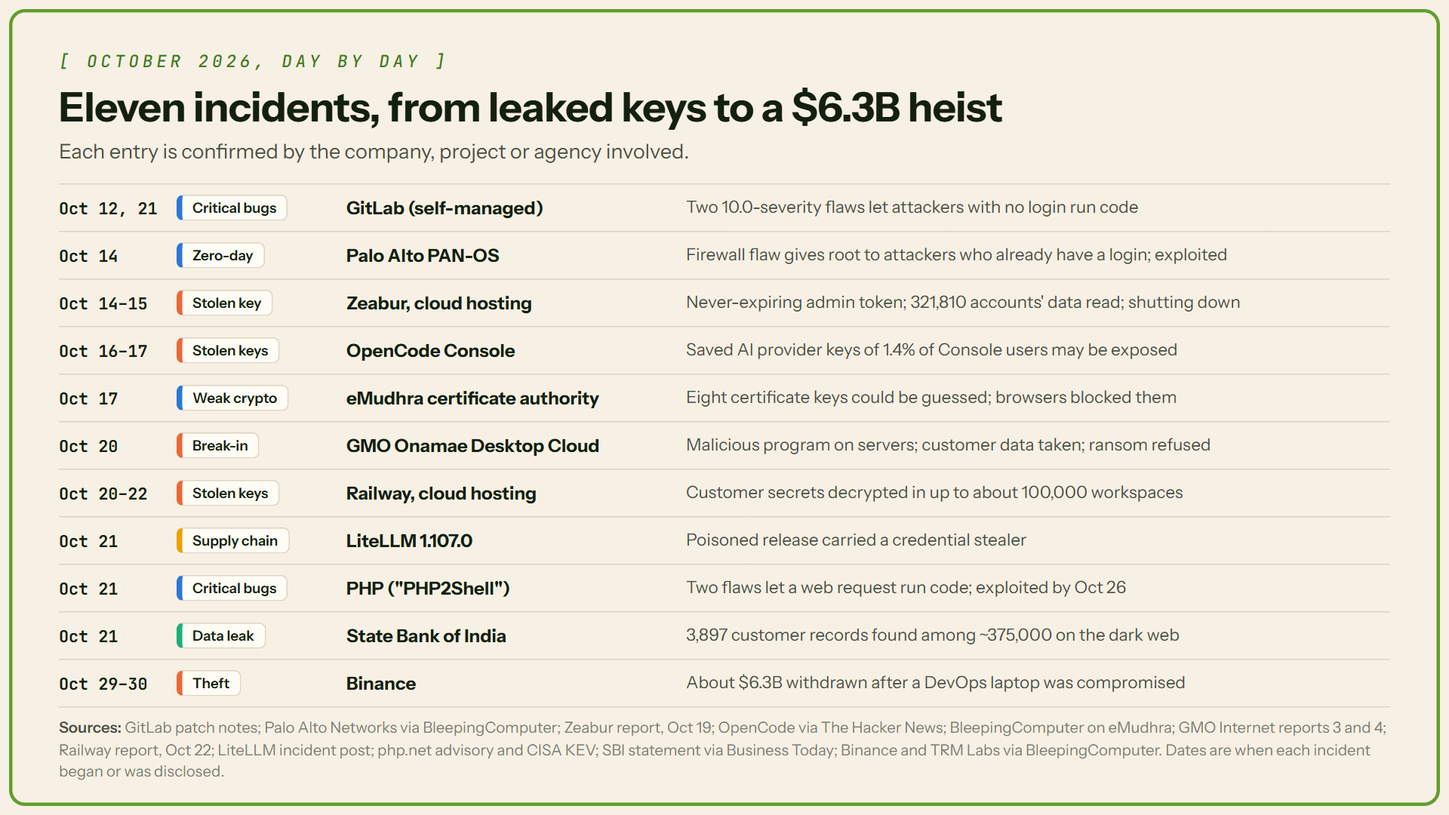
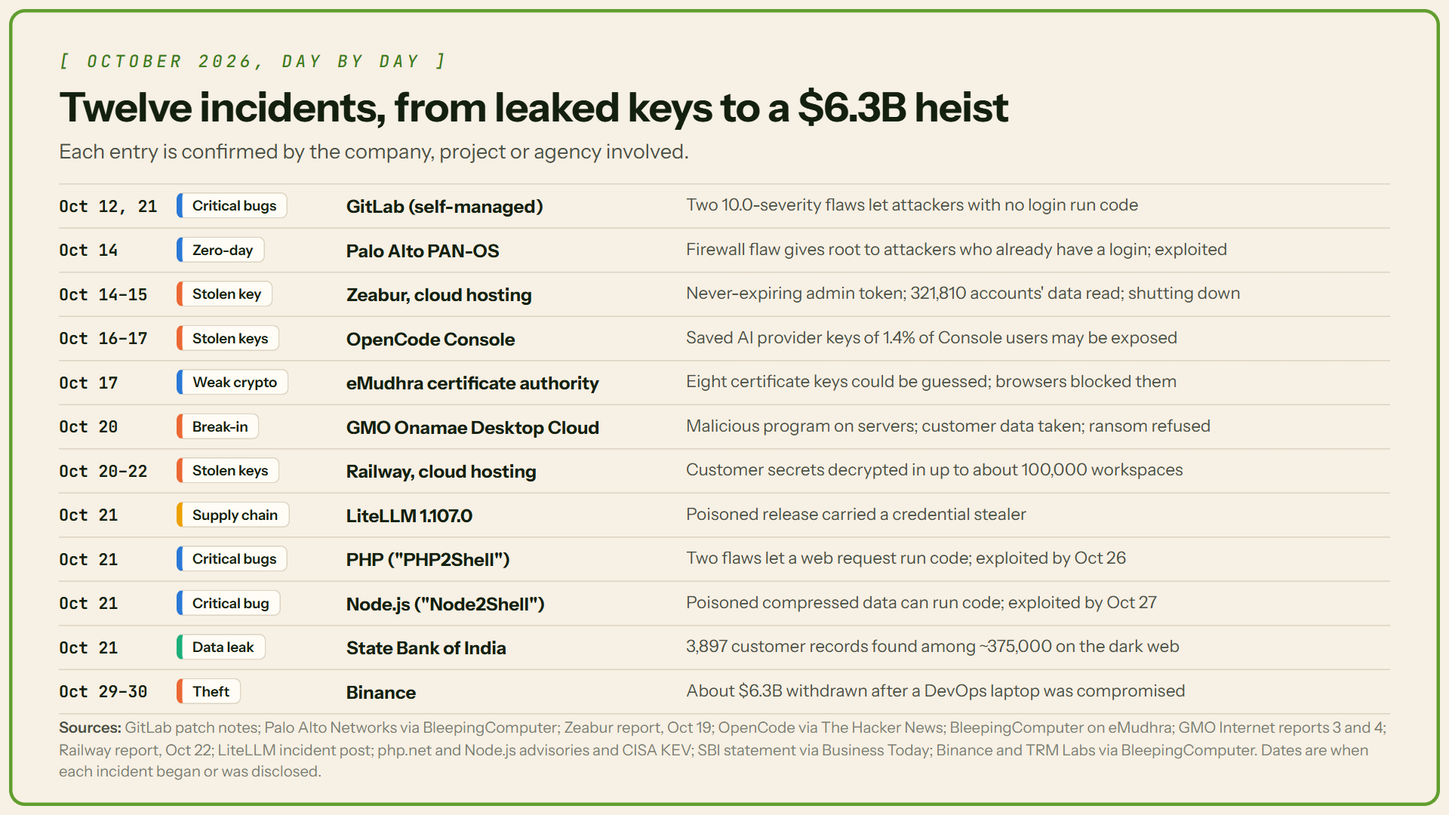
Add Node2Shell and apply reviewer fixes to Black October article

diff --git a/black-october-2026-infrastructure-hacks/index.html b/black-october-2026-infrastructure-hacks/index.html
@@ -3,7 +3,7 @@
 <head>
 <meta charset="UTF-8">
 <meta name="viewport" content="width=device-width, initial-scale=1.0">
-<meta name="description" content="October 2026's worst security incidents explained: Binance, GitLab, PHP2Shell, Zeabur, OpenCode, Railway, LiteLLM, GMO, SBI, eMudhra and PAN-OS. How attackers got in and what to do.">
+<meta name="description" content="October 2026's worst security incidents explained: Binance, GitLab, PHP2Shell, Node2Shell, Zeabur, OpenCode, Railway, LiteLLM, GMO, SBI, eMudhra and PAN-OS. How attackers got in and what to do.">
 <meta property="og:title" content="Black October 2026: Worst Infrastructure Hacks Analyzed">
 <meta property="og:description" content="A $6.3 billion crypto theft, a hosting company breached with keys it never changed, and two perfect-10 GitLab bugs. What happened, and what to do about each.">
 <meta property="og:type" content="article">
@@ -288,7 +288,7 @@
 <header class="article-header">
   <span class="tag">Deep Dive</span>
   <h1>Black October 2026: Worst Infrastructure Hacks Analyzed</h1>
-  <p class="subtitle">A $6.3 billion crypto theft, a hosting company breached with keys it never changed, and two perfect-10 GitLab bugs. What happened, and what to do about each.</p>
+  <p class="subtitle">A $6.3 billion crypto theft, a hosting company breached with keys it never changed, and two perfect-10 GitLab bugs.</p>
   <p class="meta">Researched &amp; written November 2026 · ~8 min read · Sources cited throughout</p>
 </header>
 
@@ -300,21 +300,21 @@
 
 <p class="drop-cap">On October 29, about $6.3 billion left Binance's wallets, most of it in roughly 20 minutes. Binance traced it to one engineer's compromised laptop. Two weeks earlier, a cloud host called Zeabur was breached with admin tokens nobody had changed since January 2024. It later chose to shut down, partly because of the breaches.</p>
 
-<p>Most of October's incidents weren't clever new attacks. Someone got hold of a key, or found a door that should have been locked. Below are eleven, in date order.</p>
+<p>Most of October's incidents weren't clever new attacks. Someone got hold of a key, or found a door that should have been locked. Below are twelve, in date order.</p>
 
 <p>Each one is checked against the company's statement, a vendor advisory or a government notice.</p>
 
 <h3>🙋 Does this affect you?</h3>
 
 <ul>
-  <li>Run your own GitLab server, PHP website or Palo Alto firewall? Patch now (Figure 4).</li>
+  <li>Run your own GitLab server, PHP website, Node.js app or Palo Alto firewall? Patch now (Figure 4).</li>
   <li>Kept keys on Zeabur, Railway or OpenCode Console? Rotate them.</li>
   <li>Installed LiteLLM 1.107.0? Treat that machine as compromised.</li>
 </ul>
 
 <figure class="article-image">
-  <a class="zoom" href="https://padmashri23.github.io/under-the-hood/black-october-2026-infrastructure-hacks/images/october-timeline.png" target="_blank"><img src="https://padmashri23.github.io/under-the-hood/black-october-2026-infrastructure-hacks/images/october-timeline.png" onerror="this.onerror=null;this.src='images/october-timeline.png'" width="1920" height="1080" loading="lazy" alt="Timeline of eleven October 2026 incidents. Oct 12 and 21: two 10.0-severity GitLab flaws. Oct 14: exploited Palo Alto PAN-OS firewall flaw. Oct 14 to 15: Zeabur breached with a never-expiring admin token, 321,810 accounts' data read. Oct 16 to 17: OpenCode Console AI provider keys of 1.4% of users may be exposed. Oct 17: eight eMudhra certificate keys could be guessed. Oct 20: GMO Onamae Desktop Cloud break-in, data taken, ransom refused. Oct 20 to 22: Railway secrets decrypted in up to about 100,000 workspaces. Oct 21: poisoned LiteLLM 1.107.0. Oct 21: PHP2Shell flaws, exploited by Oct 26. Oct 21: State Bank of India, 3,897 customer records found among about 375,000 on the dark web. Oct 29 to 30: Binance, about 6.3 billion dollars withdrawn after a DevOps laptop was compromised."></a>
-  <figcaption>Figure 1. The eleven incidents in date order.</figcaption>
+  <a class="zoom" href="https://padmashri23.github.io/under-the-hood/black-october-2026-infrastructure-hacks/images/october-timeline.png" target="_blank"><img src="https://padmashri23.github.io/under-the-hood/black-october-2026-infrastructure-hacks/images/october-timeline.png" onerror="this.onerror=null;this.src='images/october-timeline.png'" width="1920" height="1080" loading="lazy" alt="Timeline of twelve October 2026 incidents. Oct 12 and 21: two 10.0-severity GitLab flaws. Oct 14: exploited Palo Alto PAN-OS firewall flaw. Oct 14 to 15: Zeabur breached with a never-expiring admin token, 321,810 accounts' data read. Oct 16 to 17: OpenCode Console AI provider keys of 1.4% of users may be exposed. Oct 17: eight eMudhra certificate keys could be guessed. Oct 20: GMO Onamae Desktop Cloud break-in, data taken, ransom refused. Oct 20 to 22: Railway secrets decrypted in up to about 100,000 workspaces. Oct 21: poisoned LiteLLM 1.107.0. Oct 21: PHP2Shell flaws, exploited by Oct 26. Oct 21: Node.js Node2Shell Brotli flaw, exploited by Oct 27. Oct 21: State Bank of India, 3,897 customer records found among about 375,000 on the dark web. Oct 29 to 30: Binance, about 6.3 billion dollars withdrawn after a DevOps laptop was compromised."></a>
+  <figcaption>Figure 1. The twelve incidents in date order.</figcaption>
 </figure>
 
 <h3>📖 Words you'll see in this article</h3>
@@ -346,17 +346,17 @@
 
 <p><strong>How they got in.</strong> With the first bug, a specially crafted pattern in a CI/CD configuration, the file that tells GitLab how to build code, lets someone with no login run code on the server. GitLab says the second "could have allowed an unauthenticated user to execute arbitrary code." Both are integer overflows: a number grows past its limit and wraps around, like an old car odometer rolling back to zero. No attacks on the second bug have been reported.</p>
 
-<p><strong>What to do.</strong> GitLab.com is already patched. Self-managed servers need 19.5.1, 19.4.3 or 19.3.6, or the backport for an older branch. A server patched on October 12 is still exposed to the second bug.</p>
+<p><strong>What to do.</strong> GitLab.com is already patched. Self-managed servers need 19.5.1, 19.4.3, 19.3.6 or an older branch's backport. A server patched on October 12 is still exposed to the second bug. Running GitLab on your own Ruby? Upgrade Ruby to 3.3.13, 3.4.12 or 4.0.9+ too.</p>
 
 <h2 id="panos">🧱 Palo Alto PAN-OS: a firewall zero-day (Oct 14)</h2>
 
-<p>CVE-2026-0322 lets an attacker who already has credentials and network access to the firewall's management page run code as root. Palo Alto said "very limited exploitation" had been observed, and CISA gave federal agencies three days to fix it. There is no workaround: upgrade, and allow the management page only from trusted internal addresses.</p>
+<p>CVE-2026-0322 lets an attacker who already has credentials and network access to the firewall's management page run code as root. Palo Alto saw "very limited exploitation," and CISA gave federal agencies three days to fix it. There is no workaround: upgrade, and limit the management page to trusted internal addresses.</p>
 
 <h2 id="zeabur">🔑 Zeabur: keys nobody changed (Oct 14 to 15)</h2>
 
 <p><strong>What happened.</strong> Zeabur hosted apps for developers. An attacker reached its shared cluster in nine regions, signed in as root on 101 dedicated servers and read the platform database: data for 321,810 accounts and 3,218,965 environment-variable records.</p>
 
-<p><strong>How they got in.</strong> Zeabur says the attacker used "leaked Zeabur internal credentials": AWS keys and cluster admin tokens. The admin tokens "had no expiry, had not been rotated since they were created in January 2024." They sat in plain text in a private repository, and the admin interface was open to the internet. Picture a master key nobody changed for 1,008 days. Zeabur's reset after an August breach "did not cover the cluster admin tokens and AWS keys."</p>
+<p><strong>How they got in.</strong> Zeabur says the attacker used "leaked Zeabur internal credentials": AWS keys and cluster admin tokens. The admin tokens "had no expiry, had not been rotated since they were created in January 2024." They sat in plain text in a private repository, and the admin interface was open to the internet. Picture a master key nobody changed for 1,008 days.</p>
 
 <p><strong>What to do.</strong> Zeabur will stop all services by December 31. Customers should rotate every secret stored there and move their apps.</p>
 
@@ -378,7 +378,7 @@
 
 <h2 id="emudhra">🔒 eMudhra: certificate keys anyone could guess (Oct 17)</h2>
 
-<p>eMudhra is an Indian certificate authority, one of the companies that vouch for the padlock in your browser. A researcher found that eight of its intermediate certificates had private keys with "values smaller than 256," so anyone could guess them in 256 tries and forge trusted certificates. Mozilla blocked them on October 17, and Chrome blocked the six that could issue website certificates. eMudhra said it found no evidence they were misused, and it is winding down its global TLS certificate business. India's Digital Signature Certificates and eSign are unaffected, according to India's IT ministry.</p>
+<p>eMudhra is an Indian certificate authority, one of the companies that vouch for the padlock in your browser. Eight of its intermediate certificates had private keys anyone could guess in 256 tries, enough to forge trusted certificates. Browsers started blocking them on October 17. eMudhra found no evidence of misuse and is leaving the global TLS certificate business. India's IT ministry says local Digital Signature Certificates and eSign are unaffected.</p>
 
 <h2 id="gmo">🖥 GMO Onamae.com Desktop Cloud: a hidden program (Oct 20)</h2>
 
@@ -404,7 +404,7 @@
 
 <p><strong>How they got in.</strong> They held three developers' GitHub login tokens. One overrode the release safeguards, a second approved the release and a third deleted the records afterward.</p>
 
-<p><strong>What to do.</strong> If you installed it, remove it, rebuild from scratch on 1.106.2, and rotate every secret that machine could reach.</p>
+<p><strong>What to do.</strong> Don't start with pip: any Python run, pip included, restarts the malware. From the shell, delete cook.pth, cook.py, sitecustomize.py and their cached copies, then kill the hidden Python process. Rebuild from scratch on 1.106.2 and rotate every secret that machine could reach.</p>
 
 <figure class="article-image">
   <a class="zoom" href="https://padmashri23.github.io/under-the-hood/black-october-2026-infrastructure-hacks/images/litellm-window.png" target="_blank"><img src="https://padmashri23.github.io/under-the-hood/black-october-2026-infrastructure-hacks/images/litellm-window.png" onerror="this.onerror=null;this.src='images/litellm-window.png'" width="1920" height="1080" loading="lazy" alt="Timeline chart for October 21, 2026, in UTC. Attack setup from 10:08 to 11:39. The malicious LiteLLM 1.107.0 was on PyPI from 11:39 to 13:23 (1 hour 44 minutes), on GitHub's container registry from 11:46 to 13:51 (2 hours 5 minutes), and on Docker Hub from 11:46 to 14:20 (2 hours 34 minutes)."></a>
@@ -417,24 +417,28 @@
 
 <p><strong>How they got in.</strong> PHP says the risk is highest with Apache's mod_php, where a demonstrated attack works "before any application code runs." No login and no buggy plugin are needed.</p>
 
-<p><strong>What to do.</strong> Upgrade to 8.5.12, 8.4.27, 8.3.36 or 8.2.35. PHP 8.1 and older get no official release, though the team posted minimal source fixes for 7.4, 8.0 and 8.1. Anything older gets no fix from the PHP project, though some Linux distributions and paid support vendors backport one.</p>
+<p><strong>What to do.</strong> Upgrade to 8.5.12, 8.4.27, 8.3.36 or 8.2.35. PHP 8.1 and older get no official release, though the team posted minimal source fixes for 7.4, 8.0 and 8.1. Older versions need a fix from a Linux distribution or support vendor.</p>
 
 <figure class="article-image">
-  <a class="zoom" href="https://padmashri23.github.io/under-the-hood/black-october-2026-infrastructure-hacks/images/patch-now.png" target="_blank"><img src="https://padmashri23.github.io/under-the-hood/black-october-2026-infrastructure-hacks/images/patch-now.png" onerror="this.onerror=null;this.src='images/patch-now.png'" width="1920" height="1080" loading="lazy" alt="Patch card. GitLab self-managed, CVE-2026-97229 and CVE-2026-110264, both CVSS 10.0, the first on CISA's exploited list on Oct 29: upgrade to 19.5.1, 19.4.3 or 19.3.6; the Oct 12 fixes do not cover the second bug; custom Ruby must be 3.3.13, 3.4.12 or 4.0.9 or later. PHP2Shell, CVE-2026-109618 and CVE-2026-109619, exploited, on CISA's list Oct 26: upgrade to 8.5.12, 8.4.27, 8.3.36 or 8.2.35; 8.1 and older get no official release, minimal source fixes for 7.4, 8.0 and 8.1; for older versions, ask your Linux distribution or support vendor. Palo Alto PAN-OS, CVE-2026-0322, CVSS 8.6, on CISA's list Oct 14: fixed builds for 10.2, 11.1, 11.2, 12.1 and 12.2; no workaround; restrict the management interface."></a>
-  <figcaption>Figure 4. The versions that fix October's three big software bugs.</figcaption>
+  <a class="zoom" href="https://padmashri23.github.io/under-the-hood/black-october-2026-infrastructure-hacks/images/patch-now.png" target="_blank"><img src="https://padmashri23.github.io/under-the-hood/black-october-2026-infrastructure-hacks/images/patch-now.png" onerror="this.onerror=null;this.src='images/patch-now.png'" width="1920" height="1080" loading="lazy" alt="Patch card. GitLab self-managed, CVE-2026-97229 and CVE-2026-110264, both CVSS 10.0, the first on CISA's exploited list on Oct 29: upgrade to 19.5.1, 19.4.3 or 19.3.6; the Oct 12 fixes do not cover the second bug; custom Ruby must be 3.3.13, 3.4.12 or 4.0.9 or later. PHP2Shell, CVE-2026-109618 and CVE-2026-109619, exploited, on CISA's list Oct 26: upgrade to 8.5.12, 8.4.27, 8.3.36 or 8.2.35; 8.1 and older get no official release, minimal source fixes for 7.4, 8.0 and 8.1; for older versions, ask your Linux distribution or support vendor. Palo Alto PAN-OS, CVE-2026-0322, CVSS 8.6, on CISA's list Oct 14: fixed builds for 10.2, 11.1, 11.2, 12.1 and 12.2; no workaround; restrict the management interface. Node.js Node2Shell, CVE-2026-111497, Google CVSS 9.2, on CISA's list Oct 27: upgrade to 22.23.4, 24.22.1 or 26.12.1; versions past end of life get no fix."></a>
+  <figcaption>Figure 4. The versions that fix October's four big software bugs.</figcaption>
 </figure>
+
+<h2 id="node2shell">🗜 Node.js "Node2Shell": poisoned compressed data (Oct 21)</h2>
+
+<p>On October 21, Node.js, which runs the server side of many apps, fixed CVE-2026-111497, nicknamed Node2Shell, a bug in its built-in Brotli decompression code. Malformed compressed data can corrupt memory and let an attacker run code. Apps are exposed when they unpack compressed data from outsiders, for example through fetch() or Express 5's request parsers. Google, which maintains Brotli, scored it 9.2, and CISA listed it as exploited on October 27. Upgrade to Node.js 22.23.4, 24.22.1 or 26.12.1. Bun, Python's Brotli packages and Microsoft's .NET also needed fixes.</p>
 
 <h2 id="sbi">🏦 State Bank of India: customer data on the dark web (Oct 21)</h2>
 
 <p><strong>What happened.</strong> SBI said that of about 375,000 records (3.75 lakh) found on the dark web, 3,897 held customers' personal details. Those include names, mobile numbers, dates of birth, gender, email and home addresses, plus loan-related details. SBI says funds are safe, and the fields it listed don't include passwords, PINs or OTPs.</p>
 
-<p><strong>How they got in.</strong> The source is still under investigation. SBI was alerted by its threat-intelligence provider, India's Defence Cyber Agency and CERT-In.</p>
+<p><strong>How they got in.</strong> The source is still under investigation.</p>
 
 <p><strong>What to do.</strong> Expect scam calls and texts that know your name and loan details. Never share an OTP, PIN or card number. Report fraud at 1930 or cybercrime.gov.in.</p>
 
 <h2 id="binance">💸 Binance: $6.3 billion through one laptop (Oct 29 to 30)</h2>
 
-<p><strong>What happened.</strong> Blockchain analysts TRM Labs say about $6.36 billion moved out of Binance wallets on ten blockchains from about 20:05 UTC on October 29. Stablecoin issuers and others froze about $2.7 billion, by TRM's count. TRM and Chainalysis attribute the theft to TraderTraitor, a North Korean state-backed group, and the FBI agreed on October 31. Binance hasn't named anyone.</p>
+<p><strong>What happened.</strong> Blockchain analysts TRM Labs say about $6.36 billion left Binance wallets on ten blockchains on October 29. Stablecoin issuers and others froze about $2.7 billion, by TRM's count. TRM and Chainalysis attribute the theft to TraderTraitor, a North Korean state-backed group, and the FBI agreed on October 31.</p>
 
 <p><strong>How they got in.</strong> Binance traced it to a DevOps engineer's compromised laptop. From there the attacker reached a service container and sent unauthorized withdrawals. Binance stresses it "was not a single 'one-click' action" and has found "additional points of breach." It sees no sign that wallet private keys leaked.</p>
 
@@ -443,7 +447,7 @@
   <figcaption>Figure 5. Binance's account of the path so far, with TRM Labs' figures.</figcaption>
 </figure>
 
-<p><strong>What to do.</strong> Binance says "User funds are safe" and will cover losses from its SAFU emergency fund and company money. By November 2 it said about 95% was covered. Treat any "refund" message about the hack as a likely scam.</p>
+<p><strong>What to do.</strong> Binance says "User funds are safe" and will cover losses from its SAFU emergency fund and company money. By November 2 it reported replacing about 95% of stolen assets.</p>
 
 <h2 id="conclusion">✅ Conclusion</h2>
 
@@ -458,7 +462,7 @@
   <ol>
     <li>GitLab. "GitLab Critical Patch Release: 19.5.1, 19.4.3, 19.3.6, 19.2.9, 19.1.9, 19.0.10, 18.11.13." October 21, 2026. <a href="https://docs.gitlab.com/releases/patches/patch-release-gitlab-19-5-1-released/" target="_blank">docs.gitlab.com</a></li>
     <li>Cyber Daily. "Patch now! GitLab publishes fixes for perfect-10 vulnerability CVE-2026-97229." October 15, 2026. <a href="https://www.cyberdaily.au/security/14302-patch-now-gitlab-publishes-fixes-for-perfect-10-vulnerability-cve-2026-97229" target="_blank">cyberdaily.au</a></li>
-    <li>CISA. "Known Exploited Vulnerabilities Catalog." Version 2026.10.30, checked November 3, 2026. <a href="https://www.cisa.gov/known-exploited-vulnerabilities-catalog" target="_blank">cisa.gov</a></li>
+    <li>CISA. "Known Exploited Vulnerabilities Catalog." Version 2026.11.04, checked November 5, 2026. <a href="https://www.cisa.gov/known-exploited-vulnerabilities-catalog" target="_blank">cisa.gov</a></li>
     <li>BleepingComputer (Lawrence Abrams). "Palo Alto Networks warns of PAN-OS RCE flaw exploited in attacks." October 14, 2026. <a href="https://www.bleepingcomputer.com/news/security/palo-alto-networks-warns-of-pan-os-rce-flaw-exploited-in-attacks/" target="_blank">bleepingcomputer.com</a></li>
     <li>Zeabur. "Zeabur October 2026 security incident (preliminary report)." October 19, 2026. <a href="https://zeabur.com/blogs/october-2026-security-incident" target="_blank">zeabur.com</a></li>
     <li>Zeabur. "Zeabur is shutting down: what happens next." October 17, 2026. <a href="https://zeabur.com/blogs/zeabur-is-shutting-down" target="_blank">zeabur.com</a></li>
@@ -474,6 +478,8 @@
     <li>LiteLLM. "Contained: Oct 21, 2026 LiteLLM release v1.107.0 Compromised." October 21, 2026, updated October 30. <a href="https://docs.litellm.ai/blog/security-incident-oct-21-2026" target="_blank">docs.litellm.ai</a></li>
     <li>PHP. "Security advisory: Critical remote code execution vulnerabilities, update now." October 21, 2026. <a href="https://www.php.net/archive/2026.php" target="_blank">php.net</a></li>
     <li>BleepingComputer (Sergiu Gatlan). "CISA confirms PHP2Shell vulnerabilities now exploited in attacks." October 27, 2026. <a href="https://www.bleepingcomputer.com/news/security/cisa-confirms-php2shell-vulnerabilities-now-exploited-in-attacks/" target="_blank">bleepingcomputer.com</a></li>
+    <li>Node.js. "Wednesday, October 21, 2026 Security Releases." October 21, 2026. <a href="https://nodejs.org/en/blog/vulnerability/october-2026-security-releases" target="_blank">nodejs.org</a></li>
+    <li>SecurityWeek (Eduard Kovacs). "Node2Shell: Brotli Flaw Triggers Patching Across Microsoft, Node.js, Python Packages." October 26, 2026. <a href="https://www.securityweek.com/node2shell-brotli-flaw-triggers-patching-across-microsoft-node-js-python-packages/" target="_blank">securityweek.com</a></li>
     <li>Business Today. "3.75 lakh records, 3,897 customers: SBI says address, mobile numbers, email ID leaked in data breach." October 21, 2026. <a href="https://www.businesstoday.in/latest/corporate/story/3-75-lakh-records-3897-customers-sbi-says-address-mobile-numbers-email-id-leaked-in-data-breach-562775-2026-10-21" target="_blank">businesstoday.in</a></li>
     <li>Morung Express (IANS). "SBI says customer funds unaffected after data breach." October 23, 2026. <a href="https://morungexpress.com/sbi-says-customer-funds-unaffected-after-data-breach" target="_blank">morungexpress.com</a></li>
     <li>Ministry of Home Affairs, I4C. "National Cyber Crime Reporting Portal." Checked November 3, 2026. <a href="https://cybercrime.gov.in/" target="_blank">cybercrime.gov.in</a></li>
@@ -483,7 +489,7 @@
     <li>Decrypt. "Binance finds additional points of breach in $6.3B hack." October 2026. <a href="https://decrypt.co/382203/binance-finds-additional-points-of-breach-in-6-3b-hack" target="_blank">decrypt.co</a></li>
   </ol>
 
-  <p style="margin-top: 20px;"><strong>Note:</strong> Facts were checked against the sources above on November 2 and 3, 2026. Most of these investigations are still open, and Binance has promised a full post-mortem, so figures may change. Company figures are as each company reported them. GMO's ransom amount comes from TechCrunch; GMO's own notices give no figure. The Binance timing and frozen-funds figures come from TRM Labs as reported by BleepingComputer. Japanese-language notices were read in translation. No figure in this article uses modeled or illustrative data.</p>
+  <p style="margin-top: 20px;"><strong>Note:</strong> Facts were checked against the sources above on November 2, 3 and 5, 2026. Most of these investigations are still open, and Binance has promised a full post-mortem, so figures may change. Company figures are as each company reported them. GMO's ransom amount comes from TechCrunch; GMO's own notices give no figure. The Binance timing and frozen-funds figures come from TRM Labs as reported by BleepingComputer. Japanese-language notices were read in translation. No figure in this article uses modeled or illustrative data.</p>
 
   <div class="tags">
     <span>Cybersecurity</span>

diff --git a/index.html b/index.html
@@ -119,7 +119,7 @@ footer a { color: var(--text-secondary); }
 
     <a class="card" href="black-october-2026-infrastructure-hacks/">
       <h2>Black October 2026: Worst Infrastructure Hacks Analyzed</h2>
-      <p>A $6.3 billion Binance theft, two perfect-10 GitLab bugs, PHP2Shell, leaked AI keys and a hosting company breached with keys it never changed. October's worst incidents, how attackers got in, and what to do.</p>
+      <p>A $6.3 billion Binance theft, two perfect-10 GitLab bugs, PHP2Shell, Node2Shell, leaked AI keys and a hosting company breached with keys it never changed. October's worst incidents, how attackers got in, and what to do.</p>
       <div class="tags"><span class="tag">Cybersecurity</span><span class="tag">Cloud infrastructure</span><span class="tag">Supply chain</span><span class="tag">Data breaches</span></div>
       <div class="read">Read the article &rarr;</div>
     </a>

diff --git a/black-october-2026-infrastructure-hacks/README.md b/black-october-2026-infrastructure-hacks/README.md
@@ -2,7 +2,7 @@
 
 **📖 Read it here: https://padmashri23.github.io/under-the-hood/black-october-2026-infrastructure-hacks/**
 
-A beginner-friendly breakdown of eleven security incidents from October 2026: what happened, how the attackers got in, what was hit, and what to do if it affects you. Each incident is checked against the company's own statement, a vendor advisory or a government notice. Claims made only by attackers or a single outlet are labeled as such.
+A beginner-friendly breakdown of twelve security incidents from October 2026: what happened, how the attackers got in, what was hit, and what to do if it affects you. Each incident is checked against the company's own statement, a vendor advisory or a government notice. Claims made only by attackers or a single outlet are labeled as such.
 
 ## What it covers
 
@@ -17,21 +17,22 @@ In date order:
 7. **Railway (Oct 20 to 22):** customers' stored secrets decrypted
 8. **LiteLLM 1.107.0 (Oct 21):** poisoned release with a credential stealer
 9. **PHP2Shell (Oct 21):** two PHP flaws exploited by Oct 26, with fixed versions and the status of older branches
-10. **State Bank of India (Oct 21):** 3,897 customer records on the dark web, plus fraud advice (1930, cybercrime.gov.in)
-11. **Binance (Oct 29 to 30):** about $6.3 billion withdrawn after a DevOps laptop was compromised
+10. **Node.js "Node2Shell" (Oct 21):** a Brotli decompression bug exploited by Oct 27, with fixed versions (short entry)
+11. **State Bank of India (Oct 21):** 3,897 customer records on the dark web, plus fraud advice (1930, cybercrime.gov.in)
+12. **Binance (Oct 29 to 30):** about $6.3 billion withdrawn after a DevOps laptop was compromised
 
-Every full entry follows the same three parts: what happened, how they got in, and what to do. Plus a "Does this affect you?" checklist, a glossary and a short conclusion with the main lessons. About 1,745 words above Sources & References (1,794 including the title block), counting headings, captions and tables.
+Every full entry follows the same three parts: what happened, how they got in, and what to do. Plus a "Does this affect you?" checklist, a glossary and a short conclusion with the main lessons. About 1,793 words above Sources & References (1,834 including the title block), counting headings, captions and tables.
 
 ## Visuals
 
 | Visual | What it shows |
 |---|---|
-| `images/october-timeline.png` | Figure 1. The eleven incidents in date order |
+| `images/october-timeline.png` | Figure 1. The twelve incidents in date order |
 | `images/one-key-cascade.mp4` | Figure 2. 15-second animation: Zeabur's 1,008-day-old token and everything it reached |
 | `images/one-key-cascade.gif` | GIF copy of Figure 2 for Notion, linked from its caption |
 | `images/one-key-cascade-poster.png` | Poster frame for the video |
 | `images/litellm-window.png` | Figure 3. How long the poisoned LiteLLM release was downloadable (UTC) |
-| `images/patch-now.png` | Figure 4. Fixed versions for GitLab, PHP2Shell and PAN-OS |
+| `images/patch-now.png` | Figure 4. Fixed versions for GitLab, PHP2Shell, PAN-OS and Node2Shell |
 | `images/binance-path.png` | Figure 5. The path of the Binance theft as Binance has described it, with TRM Labs' figures |
 | `images/social-card.png` | 1200 × 630 preview image shown when the link is shared |
 
@@ -44,7 +45,7 @@ All visuals were built as HTML and rendered with Chrome at 1920 × 1080 (the vid
 | `index.html` | Styled web version of the article, the entry point |
 | `images/` | Four figures, the animation (MP4, GIF copy and poster), and the social preview image |
 
-Facts were checked on November 2 and 3, 2026. Several investigations are still open (Binance has promised a post-mortem), so figures may change.
+Facts were checked on November 2, 3 and 5, 2026. Several investigations are still open (Binance has promised a post-mortem), so figures may change.
 
 ## Viewing it
 

diff --git a/README.md b/README.md
@@ -16,7 +16,7 @@ Long-form, fact-checked articles on AI: how the technology works, what it costs,
 | Prompt Injection Is the #1 Enterprise AI Threat in 2026 – Here's How to Mitigate It | [Live](https://padmashri23.github.io/under-the-hood/prompt-injection-enterprise-threat/) | [`prompt-injection-enterprise-threat/`](prompt-injection-enterprise-threat/) | What prompt injection is, why it's worse when AI connects to enterprise systems, real incidents like EchoLeak, and the layered defenses that help |
 | The True Economics of Inference: FinOps Strategies for Cutting Token Costs by 60% in Production | [Live](https://padmashri23.github.io/under-the-hood/true-economics-of-inference/) | [`true-economics-of-inference/`](true-economics-of-inference/) | How token costs add up in production, the FinOps techniques that cut them, and a transparent worked example that tests the 60% figure |
 | 7 Codex & Claude Tricks That Turn You Into a One-Person Engineering Team | [Live](https://padmashri23.github.io/under-the-hood/codex-claude-one-person-engineering-team/) | [`codex-claude-one-person-engineering-team/`](codex-claude-one-person-engineering-team/) | Seven documented Codex and Claude Code techniques (project notes files, plan mode, tests, subagents, parallel worktrees and cloud tasks, skills and hooks, cross-agent review), plus six quick tips, for working like a small engineering team |
-| Black October 2026: Worst Infrastructure Hacks Analyzed | [Live](https://padmashri23.github.io/under-the-hood/black-october-2026-infrastructure-hacks/) | [`black-october-2026-infrastructure-hacks/`](black-october-2026-infrastructure-hacks/) | Eleven October 2026 security incidents (Binance, GitLab, PHP2Shell, Zeabur, OpenCode, Railway, LiteLLM, GMO, SBI, eMudhra, PAN-OS): how attackers got in, what was hit, and what to do |
+| Black October 2026: Worst Infrastructure Hacks Analyzed | [Live](https://padmashri23.github.io/under-the-hood/black-october-2026-infrastructure-hacks/) | [`black-october-2026-infrastructure-hacks/`](black-october-2026-infrastructure-hacks/) | Twelve October 2026 security incidents (Binance, GitLab, PHP2Shell, Node2Shell, Zeabur, OpenCode, Railway, LiteLLM, GMO, SBI, eMudhra, PAN-OS): how attackers got in, what was hit, and what to do |
 | How to Evaluate AI Agents Before Deploying Them in Production | [Live](https://padmashri23.github.io/under-the-hood/evaluate-ai-agents-before-production/) | [`evaluate-ai-agents-before-production/`](evaluate-ai-agents-before-production/) | How to test an AI agent before launch: what to measure, pass^k reliability, graders, prompt-injection testing, staged rollouts, monitoring, and what the main eval tools are for |
 
 ## Folder structure
